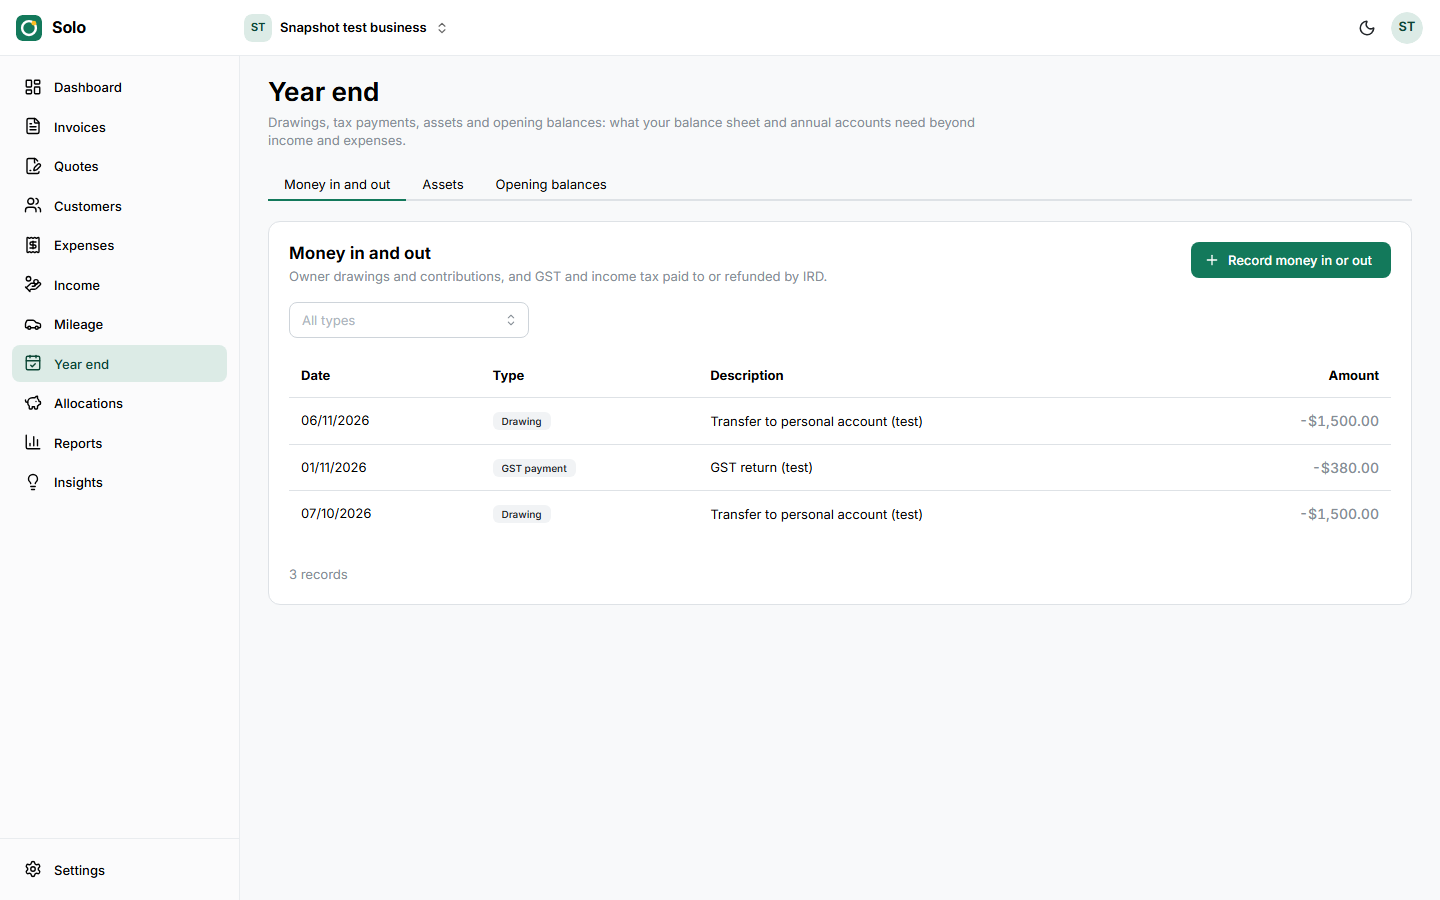
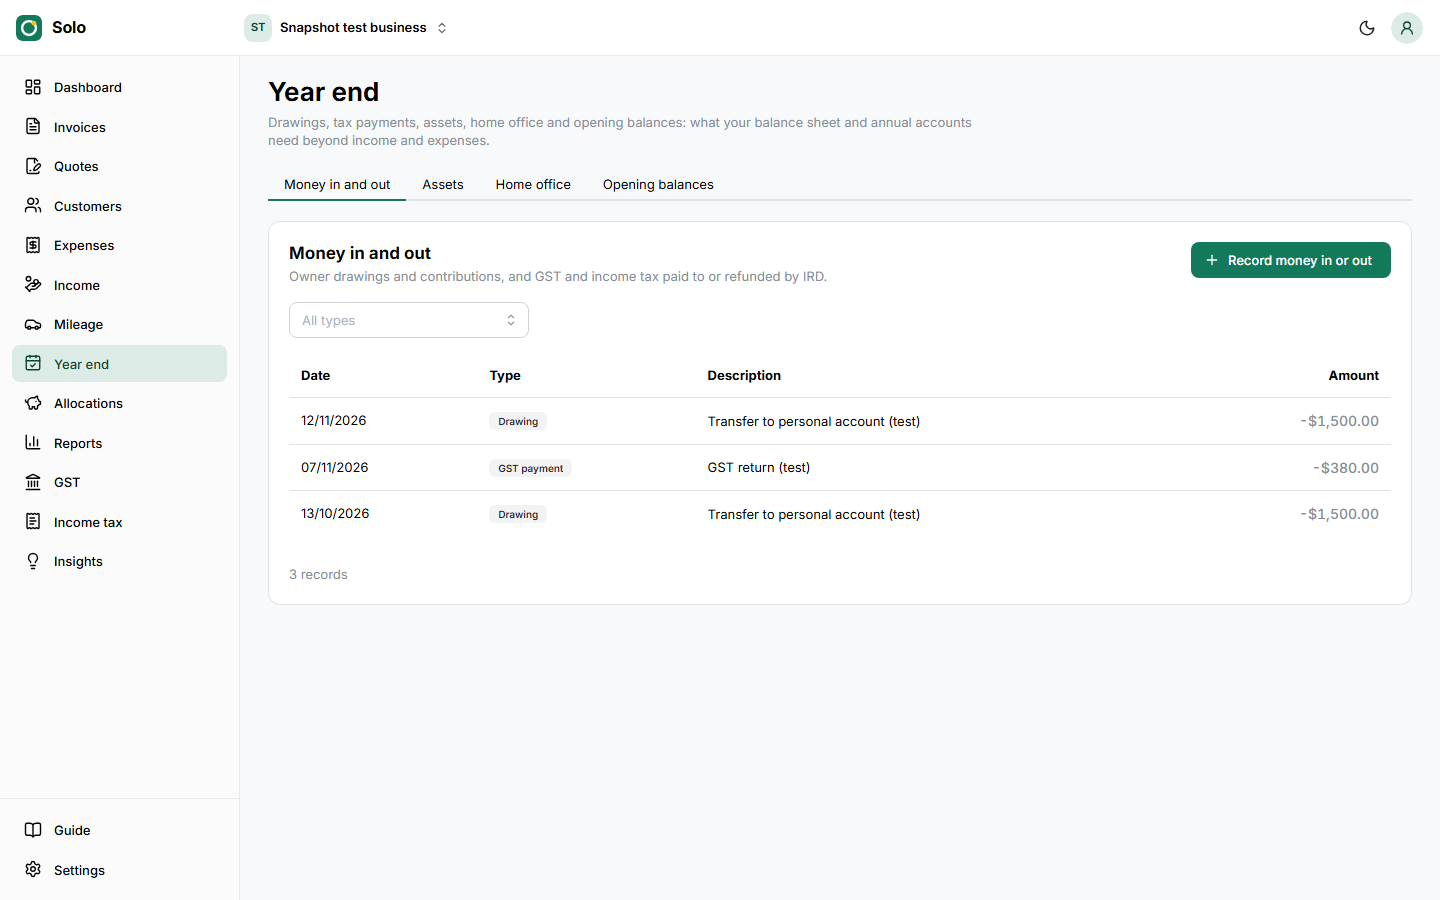
docs(readme): regenerate the screenshots, with GST, income tax, business health and backups
Guide: unchanged

Claude-Session: https://claude.ai/code/session_01NXfApumun2iqkXo7MuwLUd

diff --git a/README.md b/README.md
@@ -184,9 +184,13 @@ Everything below works in the current release. Click a section to expand it.
 | Insights with notices | Insights, dark theme |
 | ![Year end](docs/screenshots/year-end.png) | ![Assets](docs/screenshots/assets.png) |
 | Money in and out | Assets and depreciation |
-| ![Balance sheet](docs/screenshots/balance-sheet.png) | |
-| Balance sheet beside last year end | |
-| ![Reports in dark mode](docs/screenshots/reports_d.png) | <img src="docs/screenshots/dashboard_m.png" alt="Dashboard on a phone" width="200"> <img src="docs/screenshots/allocations_m.png" alt="Allocations on a phone" width="200"> |
+| ![Balance sheet](docs/screenshots/balance-sheet.png) | ![GST returns](docs/screenshots/gst.png) |
+| Balance sheet beside last year end | GST returns with IRD’s due dates |
+| ![Income tax](docs/screenshots/income-tax.png) | ![Business health](docs/screenshots/health.png) |
+| Income tax, provisional tax and ACC levies | Business health |
+| ![Back up and restore](docs/screenshots/data.png) | ![Business health in dark mode](docs/screenshots/health_d.png) |
+| Back up and restore | Business health, dark theme |
+| ![Reports in dark mode](docs/screenshots/reports_d.png) | <img src="docs/screenshots/dashboard_m.png" alt="Dashboard on a phone" width="200"> <img src="docs/screenshots/income-tax_m.png" alt="Income tax on a phone" width="200"> |
 | Reports, dark theme | At phone width |
 
 </details>
